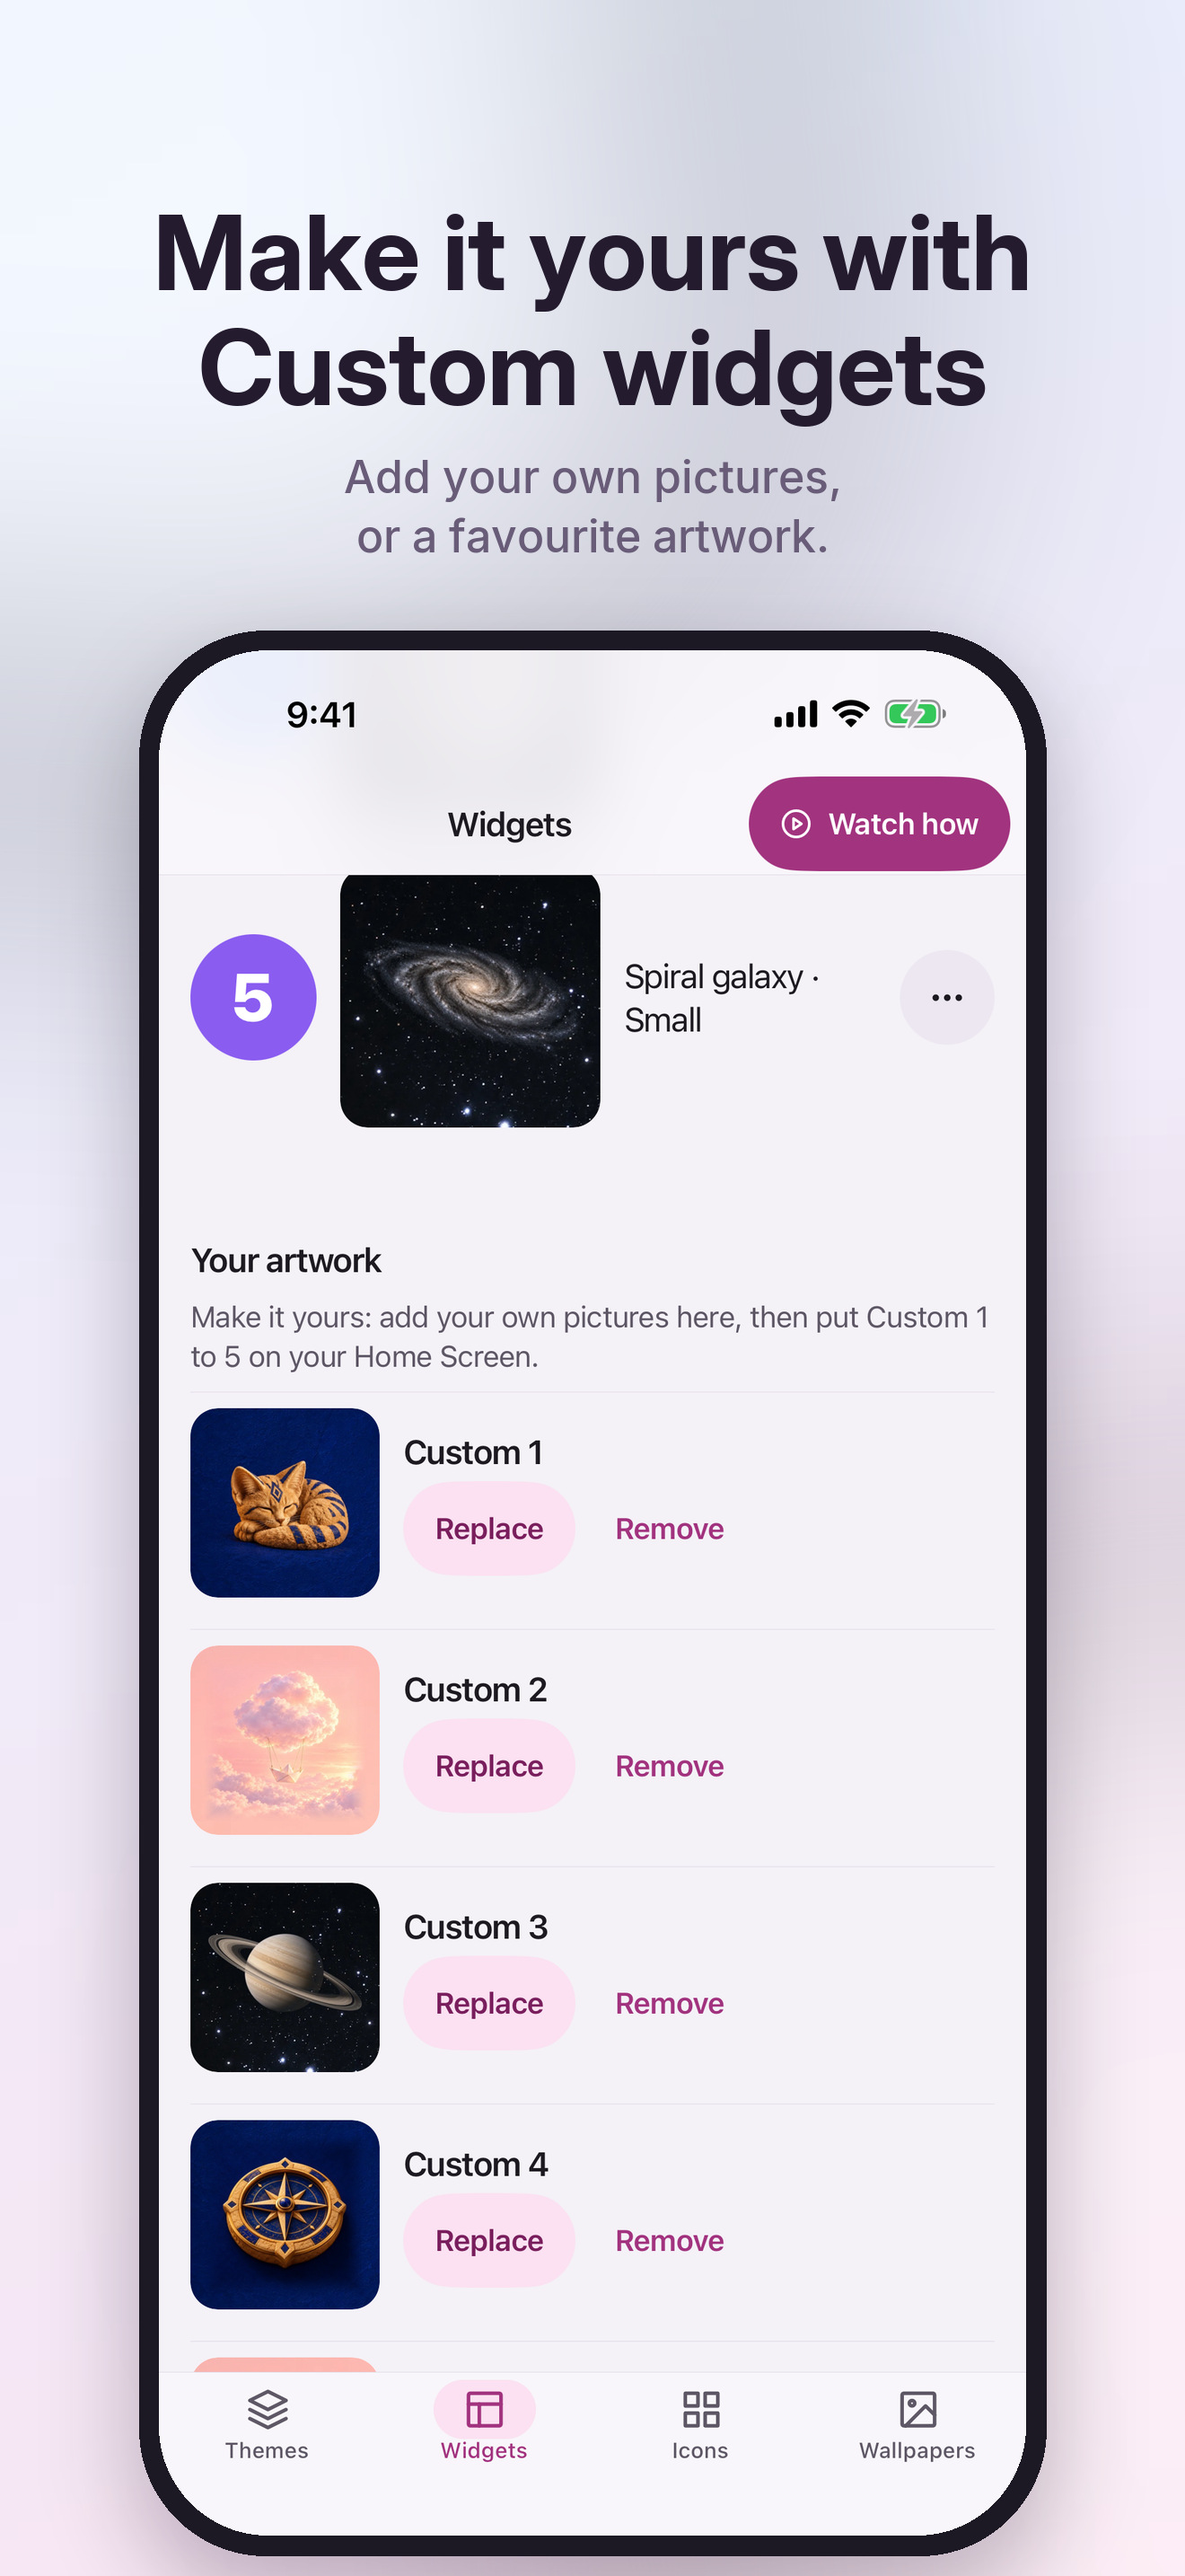
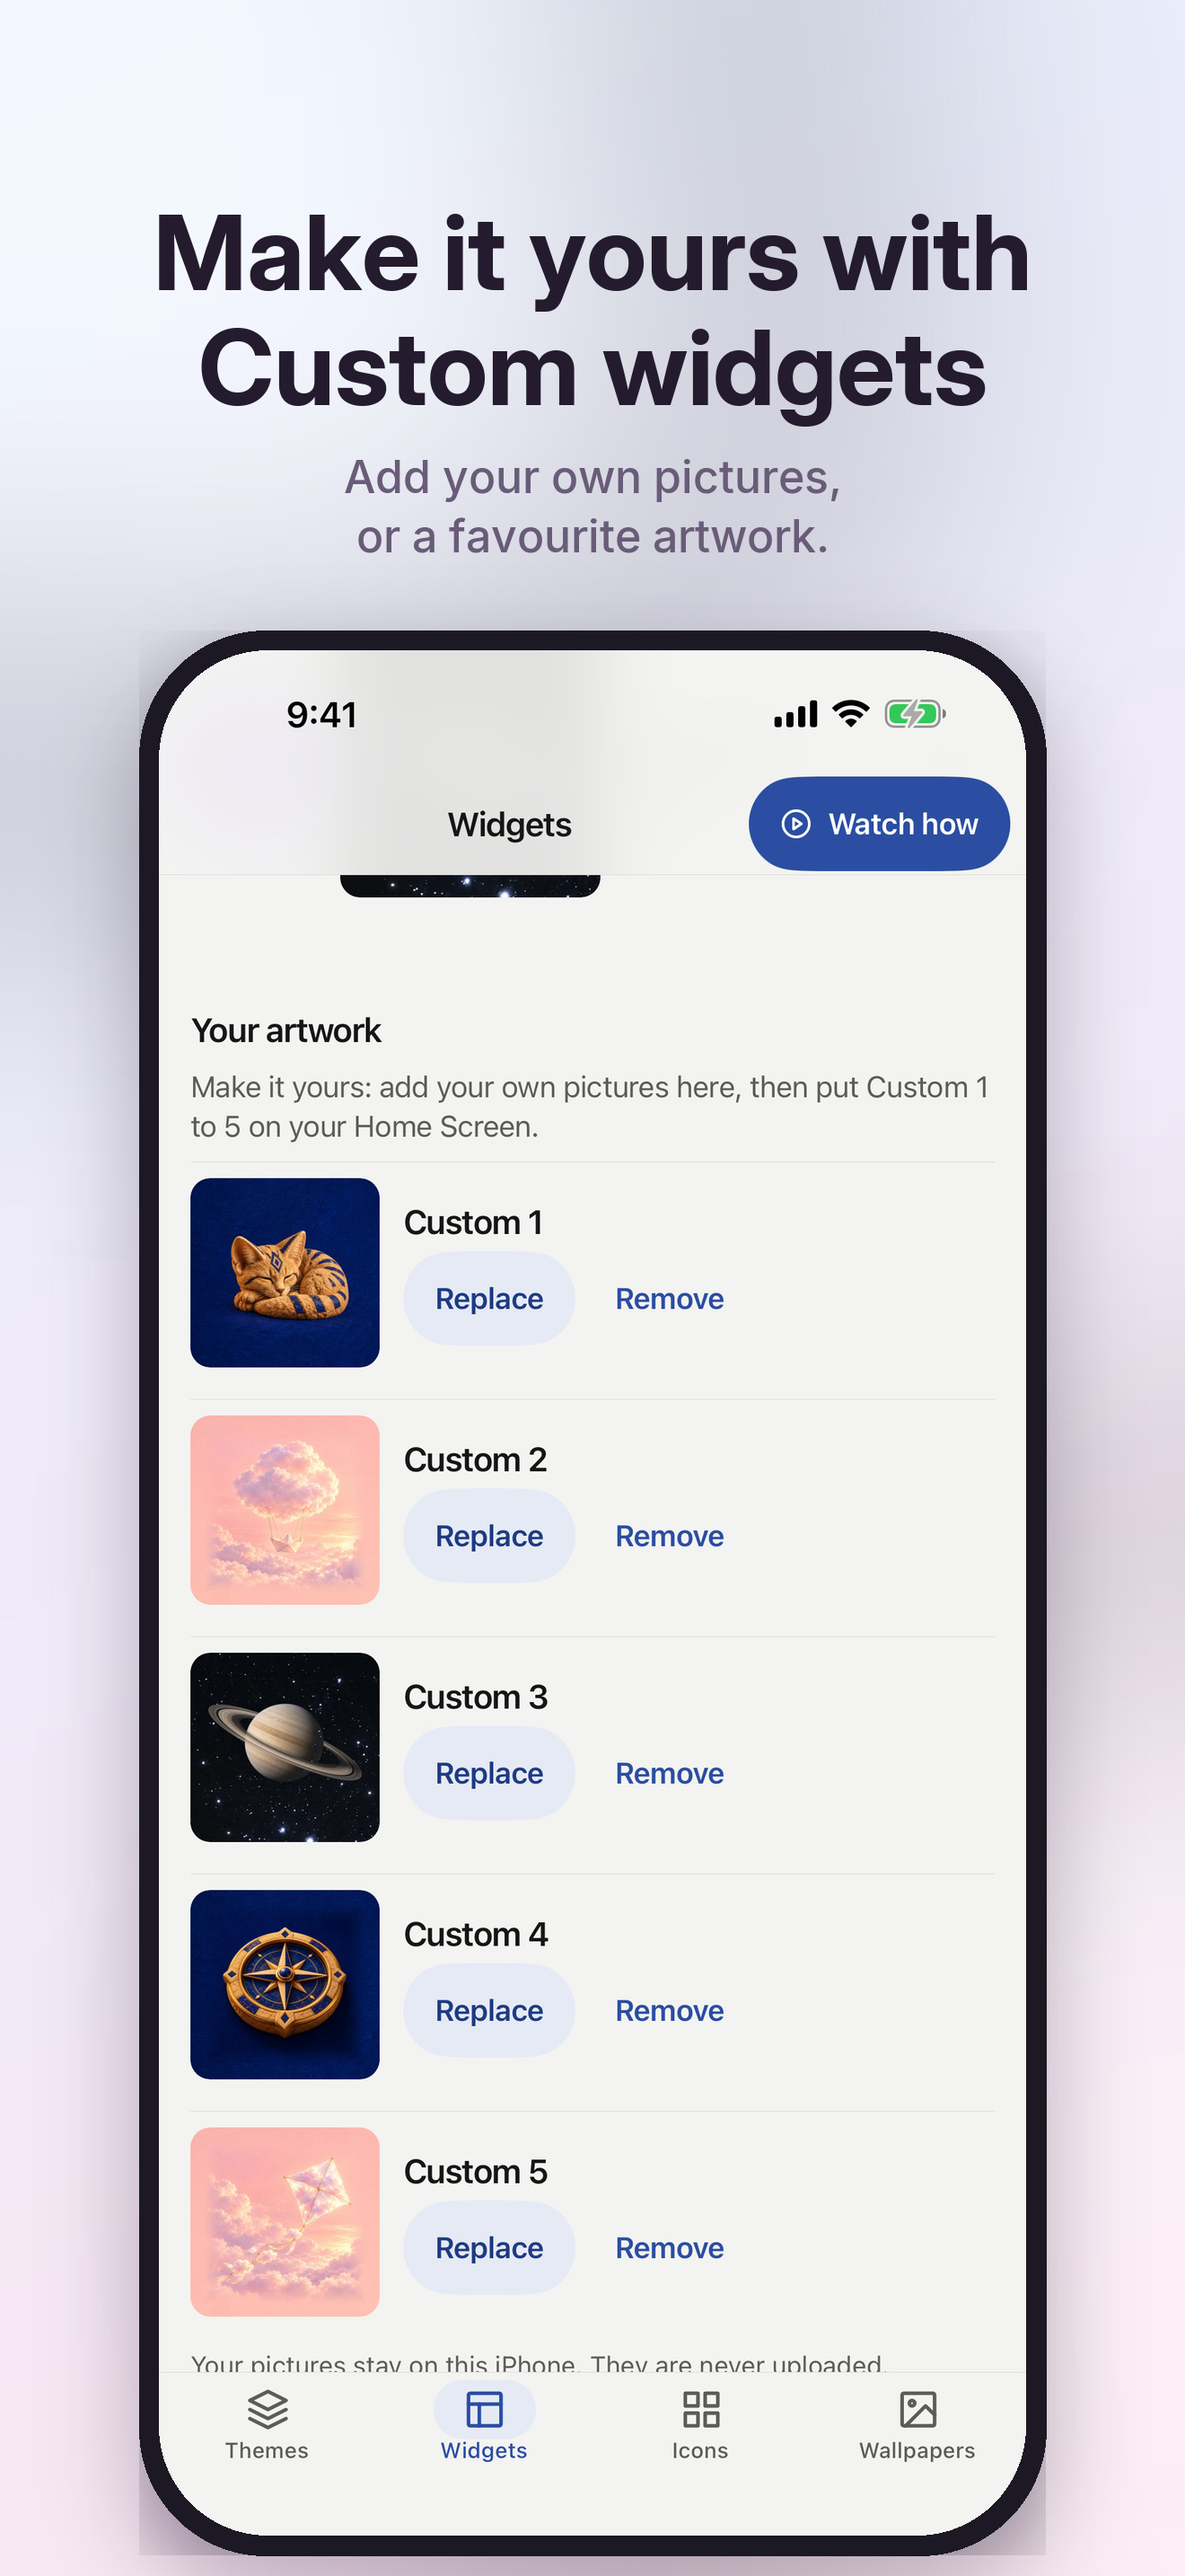
Glaze store shot 5: Custom 1-5 whole (clean frame); screenshots README for 1.0.43

diff --git a/apps/glaze/store/screenshots/README.md b/apps/glaze/store/screenshots/README.md
@@ -1,4 +1,6 @@
-# Glaze App Store screenshots (1.0.41, first release)
+# Glaze App Store screenshots (1.0.43, first release)
+
+**21 Nov 2026 (1.0.43, App Review pass):** shots 1-7 are from the 1.0.43 (Dreamroom) build via `glaze-store-capture.yml`. Shot 5 is the `31-widgets-custom` frame (Custom 1-5 whole) placed into the composed caption frame with `compose.phone()`, because the Maestro scroll lands differently from run to run. Shot 8 (Glaze Plus) is still the 1.0.41 capture on purpose: the simulator's StoreKit returns the US price ($1.99), and the en-AU listing must show the real A$2.99. The sheet's content and terms are unchanged.
 
 Eight portrait shots for the **6.9-inch iPhone** display (1320 x 2868, RGB JPEG, quality 93, no chroma subsampling) in `6.9/`.
 Glaze is iPhone-only (`supportsTablet: false`), so no iPad set is needed, and App Store Connect scales the
